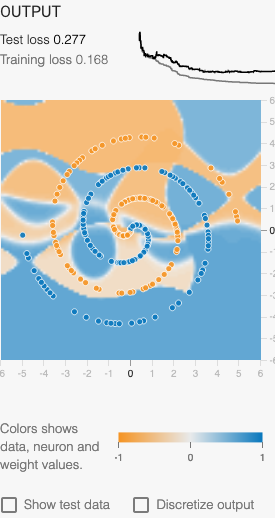
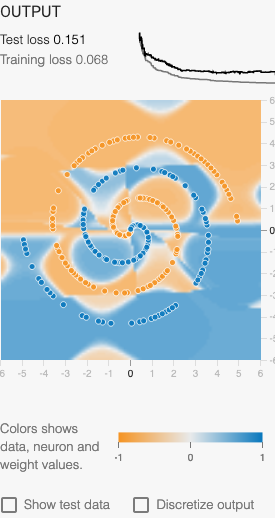
Complete Task 1

diff --git a/src/state.ts b/src/state.ts
@@ -153,8 +153,8 @@ export class State {
   problem = Problem.CLASSIFICATION;
   stopAt = 0;
   usePSO = true;
-  psoParticles = 21;
-  psoOmega = 0.7;
+  psoParticles = 25;
+  psoOmega = 0.5;
   psoAlpha1 = 2;
   psoAlpha2 = 2;
   networkToView = 0;

diff --git a/report/report.tex b/report/report.tex
@@ -1,0 +1,8 @@
+\usepackage{float}
+\let\origfigure\figure
+\let\endorigfigure\endfigure
+\renewenvironment{figure}[1][2] {
+    \expandafter\origfigure\expandafter[H]
+} {
+    \endorigfigure
+}

diff --git a/report/report.md b/report/report.md
@@ -37,21 +37,37 @@ With each having a bias (11), and the final two layers having a combined 30 weig
 
 ### 1.3 Results
 
-With 25 particles, and the following parameters: $\omega = 0.5, \alpha_1 = 2, \alpha_2 = 2$, Figure \ref{pso_350} renders the output after 350 iterations.
+Our adapted Tensorflow Playground ([original](https://playground.tensorflow.org/)) can be found here: [https://gregbrimble.github.io/playground](https://gregbrimble.github.io/playground). The configuration defaults to using PSO to train the neural network, with 25 particles, $\omega = 0.5, \alpha_1 = 2, \text{and} \alpha_2 = 2$.
+
+With this configuration, Figure \ref{pso_350} renders a sample output after 350 iterations.
 
 ![PSO after 350 iterations\label{pso_350}](./assets/pso_25_05_2_2_350.png){ width=45% }
 
-Figure \ref{pso_1000} clearly demonstrates that no further significant improvements are made to the model beyond 350 iterations.
+Figure \ref{pso_1000} clearly demonstrates that no further significant improvements are made to the model beyond approximately 350 iterations.
 
 ![PSO after 1000 iterations\label{pso_1000}](./assets/pso_25_05_2_2_1000.png){ width=45% }
+
+### 1.4 Comparison against Linear Inputs
+
+Restricting the network to only linear inputs ($x$ and $y$) significantly curtails the model's ability to fit to the spiral training data. As seen in Figure \ref{pso_linear}, the minimum training loss is quickly reached, with very little improvement seen with future iterations. The model itself is functionally very simple: practically a 50/50 divide along the spirals' centers.
+
+![PSO trained with linear features\label{pso_linear}](./assets/pso_25_05_2_2_350_linear.png){ width=45% }
+
+### 1.5 Effect of PSO Parameters
 
 Using a higher $\omega$ value results in stuttered learning (best seen in the loss sparkline) and a generally poorer model, as demonstrated in Figure \ref{pso_08}.
 
 ![PSO with a higher $\omega = 0.8$\label{pso_08}](./assets/pso_25_08_2_2_350.png){ width=45% }
 
-### 1.4 Comparison against Linear Inputs
+Significantly changing $\alpha_1$ and $\alpha_2$ seriously hampered the ability for the model to train. Figure \ref{pso_3} and \ref{pso_1} demonstrate using $\alpha_1 = \alpha_2 = 3$ and $\alpha_1 = \alpha_2 = 1$ respectively.
 
-### 1.5 Effect of PSO Parameters
+![PSO with $\alpha_1 = \alpha_2 = 3$\label{pso_3}](./assets/pso_25_05_3_3_350.png){ width=45% }
+
+![PSO with $\alpha_1 = \alpha_2 = 1$\label{pso_1}](./assets/pso_25_05_1_1_350.png){ width=45% }
+
+And finally, increasing the number of particles did improve the training and test loss, but begins to show signs of overfitting to the data (Figure \ref{pso_100}).
+
+![PSO with 100 particles\label{pso_100}](./assets/pso_100_05_2_2_350.png){ width=45% }
 
 ## Task 2
 
